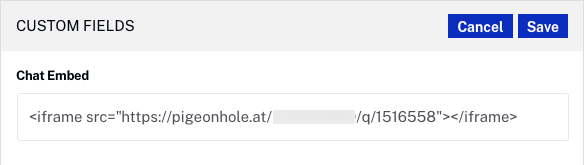
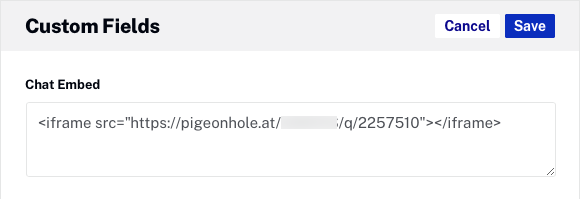
updates

diff --git a/_site/experiences/virtual-event/creating-agenda-virtual-event-experience.html b/_site/experiences/virtual-event/creating-agenda-virtual-event-experience.html
@@ -744,7 +744,7 @@ function doGTranslate(lang_pair) {if(lang_pair.value)lang_pair=lang_pair.value;i
       <li><code translate="No">related_link</code> - URL link to a session handout, slides, etc.</li>
     </ul>
     <aside class="bcls-aside bcls-aside--information">Note: The agenda upload supports up to three speakers, additional speakers can be added to a session using the Agenda module.</aside>
-    <p>When you are ready to import your agenda into the Agenda module, export it as a .csv file. <strong>The Agenda module can only import a .csv file.</strong> For information on how to upload your agenda file into the Agenda module, see <a href="managing-agenda-virtual-event-experience.html">Uploading and Customizing the Event Agenda</a>.</p>
+    <p>When you are ready to import your agenda into the Agenda module, export it as a .csv file. <strong>The Agenda module can only import a .csv file.</strong> For information on how to upload your agenda file into the Agenda module, see <a href="managing-agenda-virtual-event-experience.html">Managing the Event Agenda</a>.</p>
     <p>&nbsp;</p>
   </section>
 </article>

diff --git a/experiences/virtual-event/creating-agenda-virtual-event-experience.html b/experiences/virtual-event/creating-agenda-virtual-event-experience.html
@@ -42,7 +42,7 @@ layout: staging
       <li><code translate="No">related_link</code> - URL link to a session handout, slides, etc.</li>
     </ul>
     <aside class="bcls-aside bcls-aside--information">Note: The agenda upload supports up to three speakers, additional speakers can be added to a session using the Agenda module.</aside>
-    <p>When you are ready to import your agenda into the Agenda module, export it as a .csv file. <strong>The Agenda module can only import a .csv file.</strong> For information on how to upload your agenda file into the Agenda module, see <a href="managing-agenda-virtual-event-experience.html">Uploading and Customizing the Event Agenda</a>.</p>
+    <p>When you are ready to import your agenda into the Agenda module, export it as a .csv file. <strong>The Agenda module can only import a .csv file.</strong> For information on how to upload your agenda file into the Agenda module, see <a href="managing-agenda-virtual-event-experience.html">Managing the Event Agenda</a>.</p>
     <p>&nbsp;</p>
   </section>
 </article>

diff --git a/_site/experiences/virtual-event/using-site-editor-customize-virtual-event-experience.html b/_site/experiences/virtual-event/using-site-editor-customize-virtual-event-experience.html
@@ -750,7 +750,7 @@ function doGTranslate(lang_pair) {if(lang_pair.value)lang_pair=lang_pair.value;i
   </section>
   <section class="bcls-section">
     <h2 id="site_features">Customizing site features</h2>
-    <p>The site feature settings are used to enable site search, configure social sharing options and allow commenting on videos. To configure the site features, click <strong>SITE FEATURES</strong> in the left navigation.</p>
+    <p>The site feature settings are used to enable site search, configure the event agenda, configure the video metadata language, configure social sharing options and allow commenting on videos. To configure the site features, click <strong>SITE FEATURES</strong> in the left navigation.</p>
     <p>For complete details on how to customize the site features, see <a href="/experiences/portal/customizing-site-features-portal-experience.html">Customizing the Site Features of a Portal Experience</a>.</p>
   </section>
   <section class="bcls-section">

diff --git a/experiences/virtual-event/using-site-editor-customize-virtual-event-experience.html b/experiences/virtual-event/using-site-editor-customize-virtual-event-experience.html
@@ -48,7 +48,7 @@ layout: staging
   </section>
   <section class="bcls-section">
     <h2 id="site_features">Customizing site features</h2>
-    <p>The site feature settings are used to enable site search, configure social sharing options and allow commenting on videos. To configure the site features, click <strong>SITE FEATURES</strong> in the left navigation.</p>
+    <p>The site feature settings are used to enable site search, configure the event agenda, configure the video metadata language, configure social sharing options and allow commenting on videos. To configure the site features, click <strong>SITE FEATURES</strong> in the left navigation.</p>
     <p>For complete details on how to customize the site features, see <a href="/experiences/portal/customizing-site-features-portal-experience.html">Customizing the Site Features of a Portal Experience</a>.</p>
   </section>
   <section class="bcls-section">

diff --git a/_site/experiences/virtual-event/integrating-pigeonhole-virtual-event-experience.html b/_site/experiences/virtual-event/integrating-pigeonhole-virtual-event-experience.html
@@ -798,7 +798,7 @@ function doGTranslate(lang_pair) {if(lang_pair.value)lang_pair=lang_pair.value;i
     <ol class="bcls-tasklist-restart">
       <li>Open the Media module.</li>
       <li>Click on a video to open the video properties.</li>
-      <li>Locate the <strong>CUSTOM FIELDS</strong> section and click <strong>Edit</strong>.</li>
+      <li>Locate the <strong>Custom Fields</strong> section and click <strong>Edit</strong>.</li>
       <li>Paste the Pigeonhole embed code  into the <strong>Chat Embed</strong> custom field.
         <figure class="bcls-figure"><img class="bcls-image--no-border" alt="" src="/assets/images/experiences/virtual-event/phole-set-custom-field.png" /></figure>
       </li>

diff --git a/experiences/virtual-event/integrating-pigeonhole-virtual-event-experience.html b/experiences/virtual-event/integrating-pigeonhole-virtual-event-experience.html
@@ -96,7 +96,7 @@ layout: staging
     <ol class="bcls-tasklist-restart">
       <li>Open the Media module.</li>
       <li>Click on a video to open the video properties.</li>
-      <li>Locate the <strong>CUSTOM FIELDS</strong> section and click <strong>Edit</strong>.</li>
+      <li>Locate the <strong>Custom Fields</strong> section and click <strong>Edit</strong>.</li>
       <li>Paste the Pigeonhole embed code  into the <strong>Chat Embed</strong> custom field.
         <figure class="bcls-figure"><img class="bcls-image--no-border" alt="" src="/assets/images/experiences/virtual-event/phole-set-custom-field.png" /></figure>
       </li>
